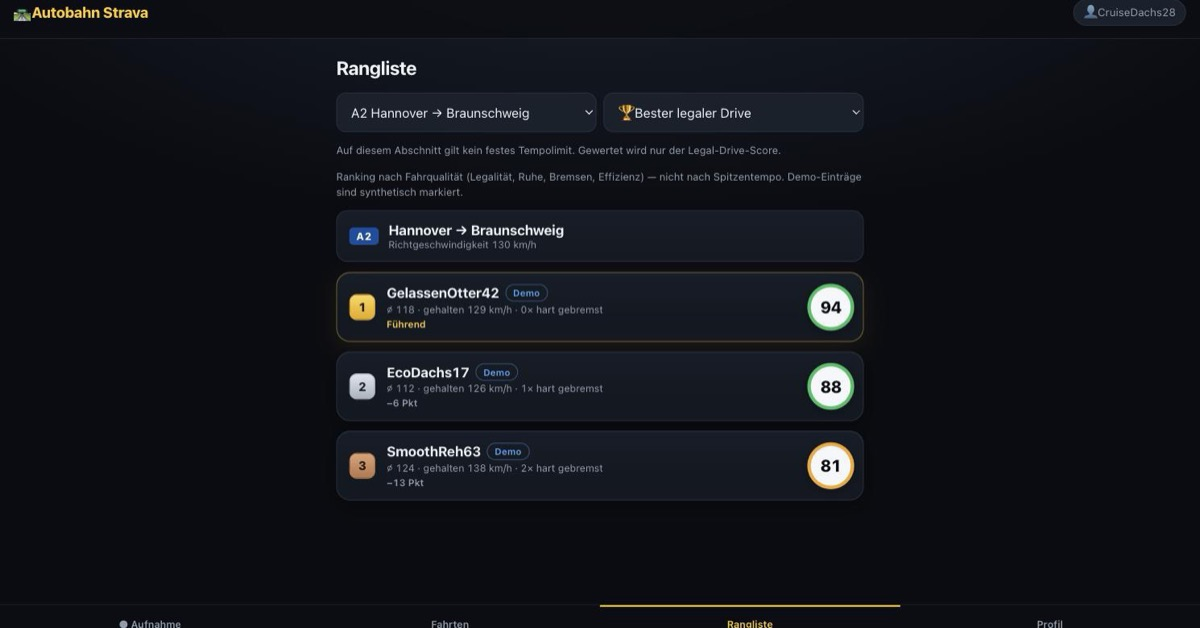
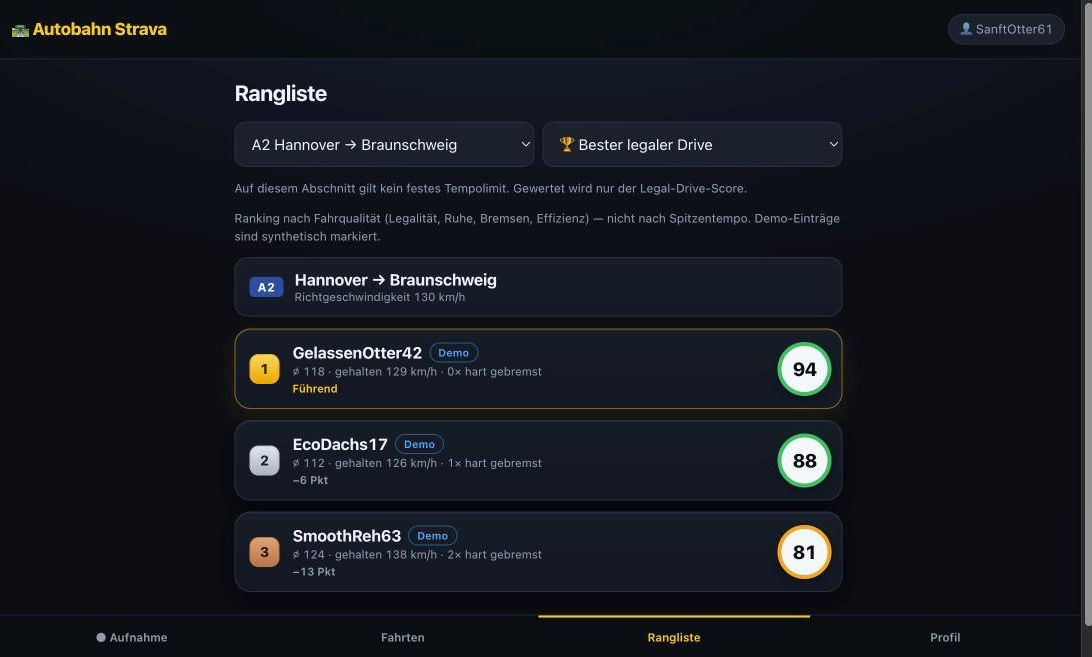
Screenshot enger, und der iOS-Build ist bewiesen
1. Screenshot
-------------
Im alten Bild war die untere Navigationsleiste an der Fensterkante
abgeschnitten und darueber standen rund 100 Pixel Leerraum. Beides laesst
sich nicht wegschneiden — was am Rand fehlt, holt kein Zuschnitt zurueck.
Deshalb dieselbe Ansicht neu aufgenommen, mit passender Fenstergroesse:
1092 x 657, Leiste vollstaendig, kaum Leerraum, alle drei Eintraege mit
Score-Werten und dem Satz zum fehlenden Tempolimit. Kein Mauszeiger, kein
Scrollbalken. Kein neuer UI-Code.

2. Der Build-Beweis
-------------------
Die fehlende iOS-Plattformkomponente ist installiert (8,52 GB), und der
Simulator-Build laeuft:

  Xcode              26.6 (17F113)
  Simulator-Runtime  iOS 26.5 (23F77), arm64
  Deployment Target  iOS 15.0
  Ergebnis           ** BUILD SUCCEEDED **, 0 Fehler
  Produkt            App.app, 5,6 MB, mit allen 24 Web-Assets im Bundle

Einzige Warnung: appintentsmetadataprocessor meldet, dass die
Metadatenextraktion uebersprungen wurde, weil keine AppIntents.framework-
Abhaengigkeit existiert. Erwartbar fuer eine App ohne App Intents.

Vorher geprueft, dass der Stand reproduzierbar ist: npm ci und
npx cap sync ios lassen den Arbeitsbaum unveraendert.

Was der Beweis NICHT ist, steht ebenso im README: ein Compile-Nachweis auf
einer Simulator-Toolchain. Niemand hat das auf einem echten iPhone laufen
lassen, und niemand ist damit gefahren. Gerade das, wofuer die native Huelle
existiert — Standort im Hintergrund bei gesperrtem Bildschirm — ist auf
[…]

diff --git a/README.md b/README.md
@@ -137,18 +137,37 @@ open ios/App/App.xcodeproj
 clean checkout it must leave the working tree unchanged — if `git status` shows a diff
 afterwards, something committed is out of date.
 
-**What is proven and what is not.** The Swift package graph resolves and the plugin is
-wired into the recorder's real code path. An actual Xcode build is **not** proven: on the
-machine used here, `xcodebuild` refused with *"iOS 26.5 is not installed. Please download
-and install the platform from Xcode > Settings > Components."* That is a missing local
-toolchain component, not a known defect in this project — but it is also not a build proof,
-which is why this target is not called verified or fully supported.
+**The build is verified — on one toolchain.** Measured on 09.09.2026:
 
-**A known finding, not a defect.** `npx cap sync ios` warns that
+| | |
+|---|---|
+| Xcode | 26.6 (17F113) |
+| Simulator runtime | iOS 26.5 (23F77), arm64 |
+| Deployment target | iOS 15.0 |
+| Result | `** BUILD SUCCEEDED **`, 0 errors |
+| Product | `App.app`, 5.6 MB, with all 24 web assets in the bundle |
+
+```bash
+xcodebuild -project ios/App/App.xcodeproj -scheme App -configuration Debug \
+  -sdk iphonesimulator -destination 'generic/platform=iOS Simulator' \
+  CODE_SIGNING_ALLOWED=NO build
+```
+
+The only warning is `appintentsmetadataprocessor: Metadata extraction skipped. No
+AppIntents.framework dependency found.` — expected for an app that uses no App Intents.
+
+**What is still not proven.** This is a *compile* proof on a simulator toolchain. Nobody has
+run this build on a physical iPhone, and nobody has driven with it. In particular the thing
+the native shell exists for — background location with the screen locked — has **not** been
+observed on real hardware. That boundary is deliberate and stays documented rather than
+quietly implied away.
+
+**A note on the plugin.** On 08.09.2026 `npx cap sync ios` warned that
 `@capacitor-community/background-geolocation` is built for Capacitor 7 while this project
-uses Capacitor 8. The package's own metadata asks for `@capacitor/core >=3.0.0`, so the
-warning does not by itself contradict anything. Only a real build and a drive on a device
-will settle whether it matters.
+uses Capacitor 8. On 09.09.2026 that warning no longer appeared — neither on `cap sync ios`
+nor on a full `cap sync` — and the build produced no related error. The package's own
+metadata asks for `@capacitor/core >=3.0.0`. Recorded here as an observation, not as a
+resolved defect.
 
 There is no iOS build in CI. A macOS runner plus a platform download, for a repository
 without signing certificates, would cost a lot and prove little.
